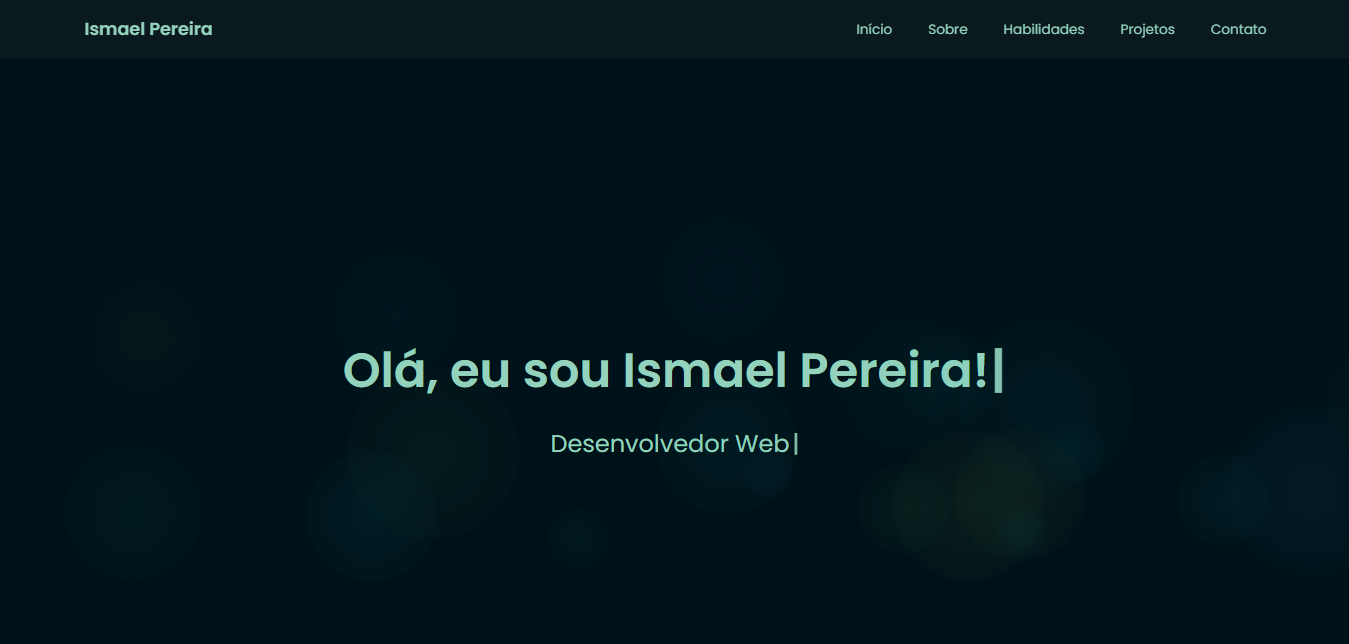
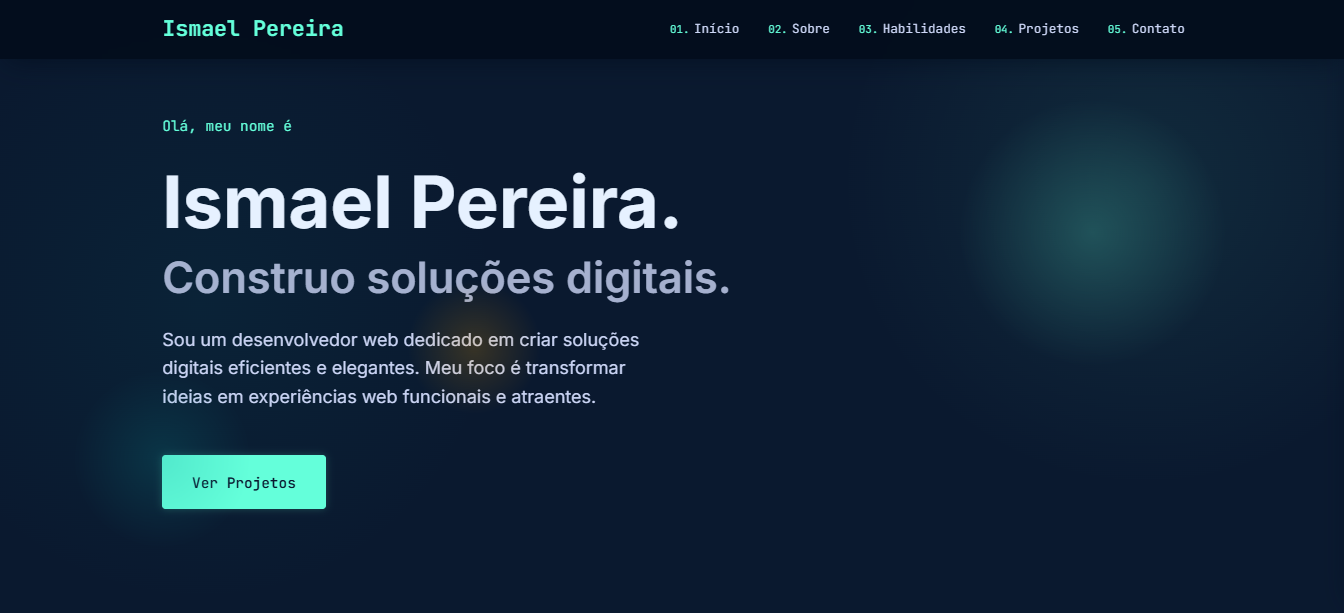
readme novo

diff --git a/README.md b/README.md
@@ -84,19 +84,63 @@ git clone https://github.com/ismapereira/Portifolio-Ismael-Pereira.git
 
 ## 🌈 Melhorias Recentes
 
-### Efeito de Bolhas de Fundo
+### [2025-03-31] - Aprimoramentos Visuais e Funcionais
 
-Implementamos uma solução avançada para o efeito de bolhas de fundo, garantindo:
+#### 🎭 Animações Avançadas com GSAP
+- **Animações de Entrada**: Implementação de animações suaves para cada seção
+- **Efeitos de Scroll**: Elementos aparecem gradualmente conforme o usuário rola a página
+- **Transições Fluidas**: Movimentos naturais e orgânicos entre estados
+- **Efeito de Digitação**: Animação de texto sendo digitado na seção inicial
+- **Parallax Sutil**: Elementos se movem em velocidades diferentes durante a rolagem
 
-- 📱 **Responsividade Total**: Adaptação dinâmica em diferentes dispositivos
-- 🖥 **Escalabilidade**: Ajuste automático de tamanho e quantidade de bolhas
-- ⚡ **Otimização de Performance**: Redução de bolhas em telas menores
-- 🎨 **Experiência Visual Consistente**: Manutenção do estilo original em todas as resoluções
+#### 🎨 Design Aprimorado
+- **Cards de Projetos**: Redesenhados com hover effects e informações mais claras
+- **Seção de Habilidades**: Barras de progresso animadas e cards interativos
+- **Footer Redesenhado**: Layout mais completo com informações de contato e links úteis
+- **Ícones Sociais**: Botões maiores e mais interativos para melhor experiência do usuário
+- **Efeito de Partículas**: Adicionado ao footer para criar uma experiência visual envolvente
 
-#### Detalhes Técnicos
-- **JavaScript Dinâmico**: Criação responsiva de bolhas
-- **CSS Media Queries**: Ajuste fino de estilos
-- **Tratamento de Erros**: Prevenção de problemas de renderização
+#### 📱 Responsividade Aperfeiçoada
+- **Menu Móvel Otimizado**: Reconstrução completa do menu para dispositivos móveis
+- **Navegação Intuitiva**: Menu hambúrguer com animação suave e links facilmente acessíveis
+- **Adaptação Dinâmica**: Layout se ajusta perfeitamente a qualquer tamanho de tela
+- **Ícones Sociais no Menu Móvel**: Acesso rápido a redes sociais em dispositivos móveis
+- **Experiência Consistente**: Mesma qualidade visual em desktop e dispositivos móveis
+
+#### ⚡ Otimizações de Performance
+- **Carregamento Otimizado**: Recursos carregados de forma eficiente
+- **Animações Eficientes**: Uso de GSAP para animações de alta performance
+- **Código Refatorado**: JavaScript e CSS limpos e bem organizados
+- **Transições Suaves**: Animações otimizadas para não sobrecarregar o navegador
+- **Compatibilidade**: Testado em múltiplos navegadores e dispositivos
+
+#### 🔄 Formulário de Contato Aprimorado
+- **Validação em Tempo Real**: Feedback imediato durante o preenchimento
+- **Mensagens de Erro Claras**: Instruções precisas para correção de dados
+- **Integração EmailJS**: Sistema confiável para envio de mensagens
+- **Feedback Visual**: Confirmação de envio com animações suaves
+- **Campos Formatados**: Máscaras para telefone e validação de email
+
+### Detalhes Técnicos das Implementações
+
+#### GSAP (GreenSock Animation Platform)
+- **ScrollTrigger**: Animações baseadas na posição de rolagem
+- **TextPlugin**: Efeitos de digitação e manipulação de texto
+- **Timeline**: Sequências complexas de animação sincronizadas
+- **Easing Functions**: Movimentos naturais e orgânicos
+
+#### Efeito de Partículas no Footer
+- **Geração Dinâmica**: Partículas criadas via JavaScript
+- **Animação CSS**: Movimento fluido e eficiente
+- **Posicionamento Aleatório**: Distribuição natural dos elementos
+- **Responsividade**: Ajuste automático baseado no tamanho da tela
+
+#### Menu Móvel Aprimorado
+- **Estrutura HTML Otimizada**: Organização clara dos elementos
+- **Animações Suaves**: Transições entre estados aberto/fechado
+- **Controle de Estado**: Lógica robusta para gerenciar interações
+- **Acessibilidade**: Suporte a navegação por teclado (tecla ESC)
+- **Links Sociais**: Integração com redes sociais diretamente no menu
 
 ## 🚀 Próximas Implementações
 - [ ] Adicionar modo escuro
